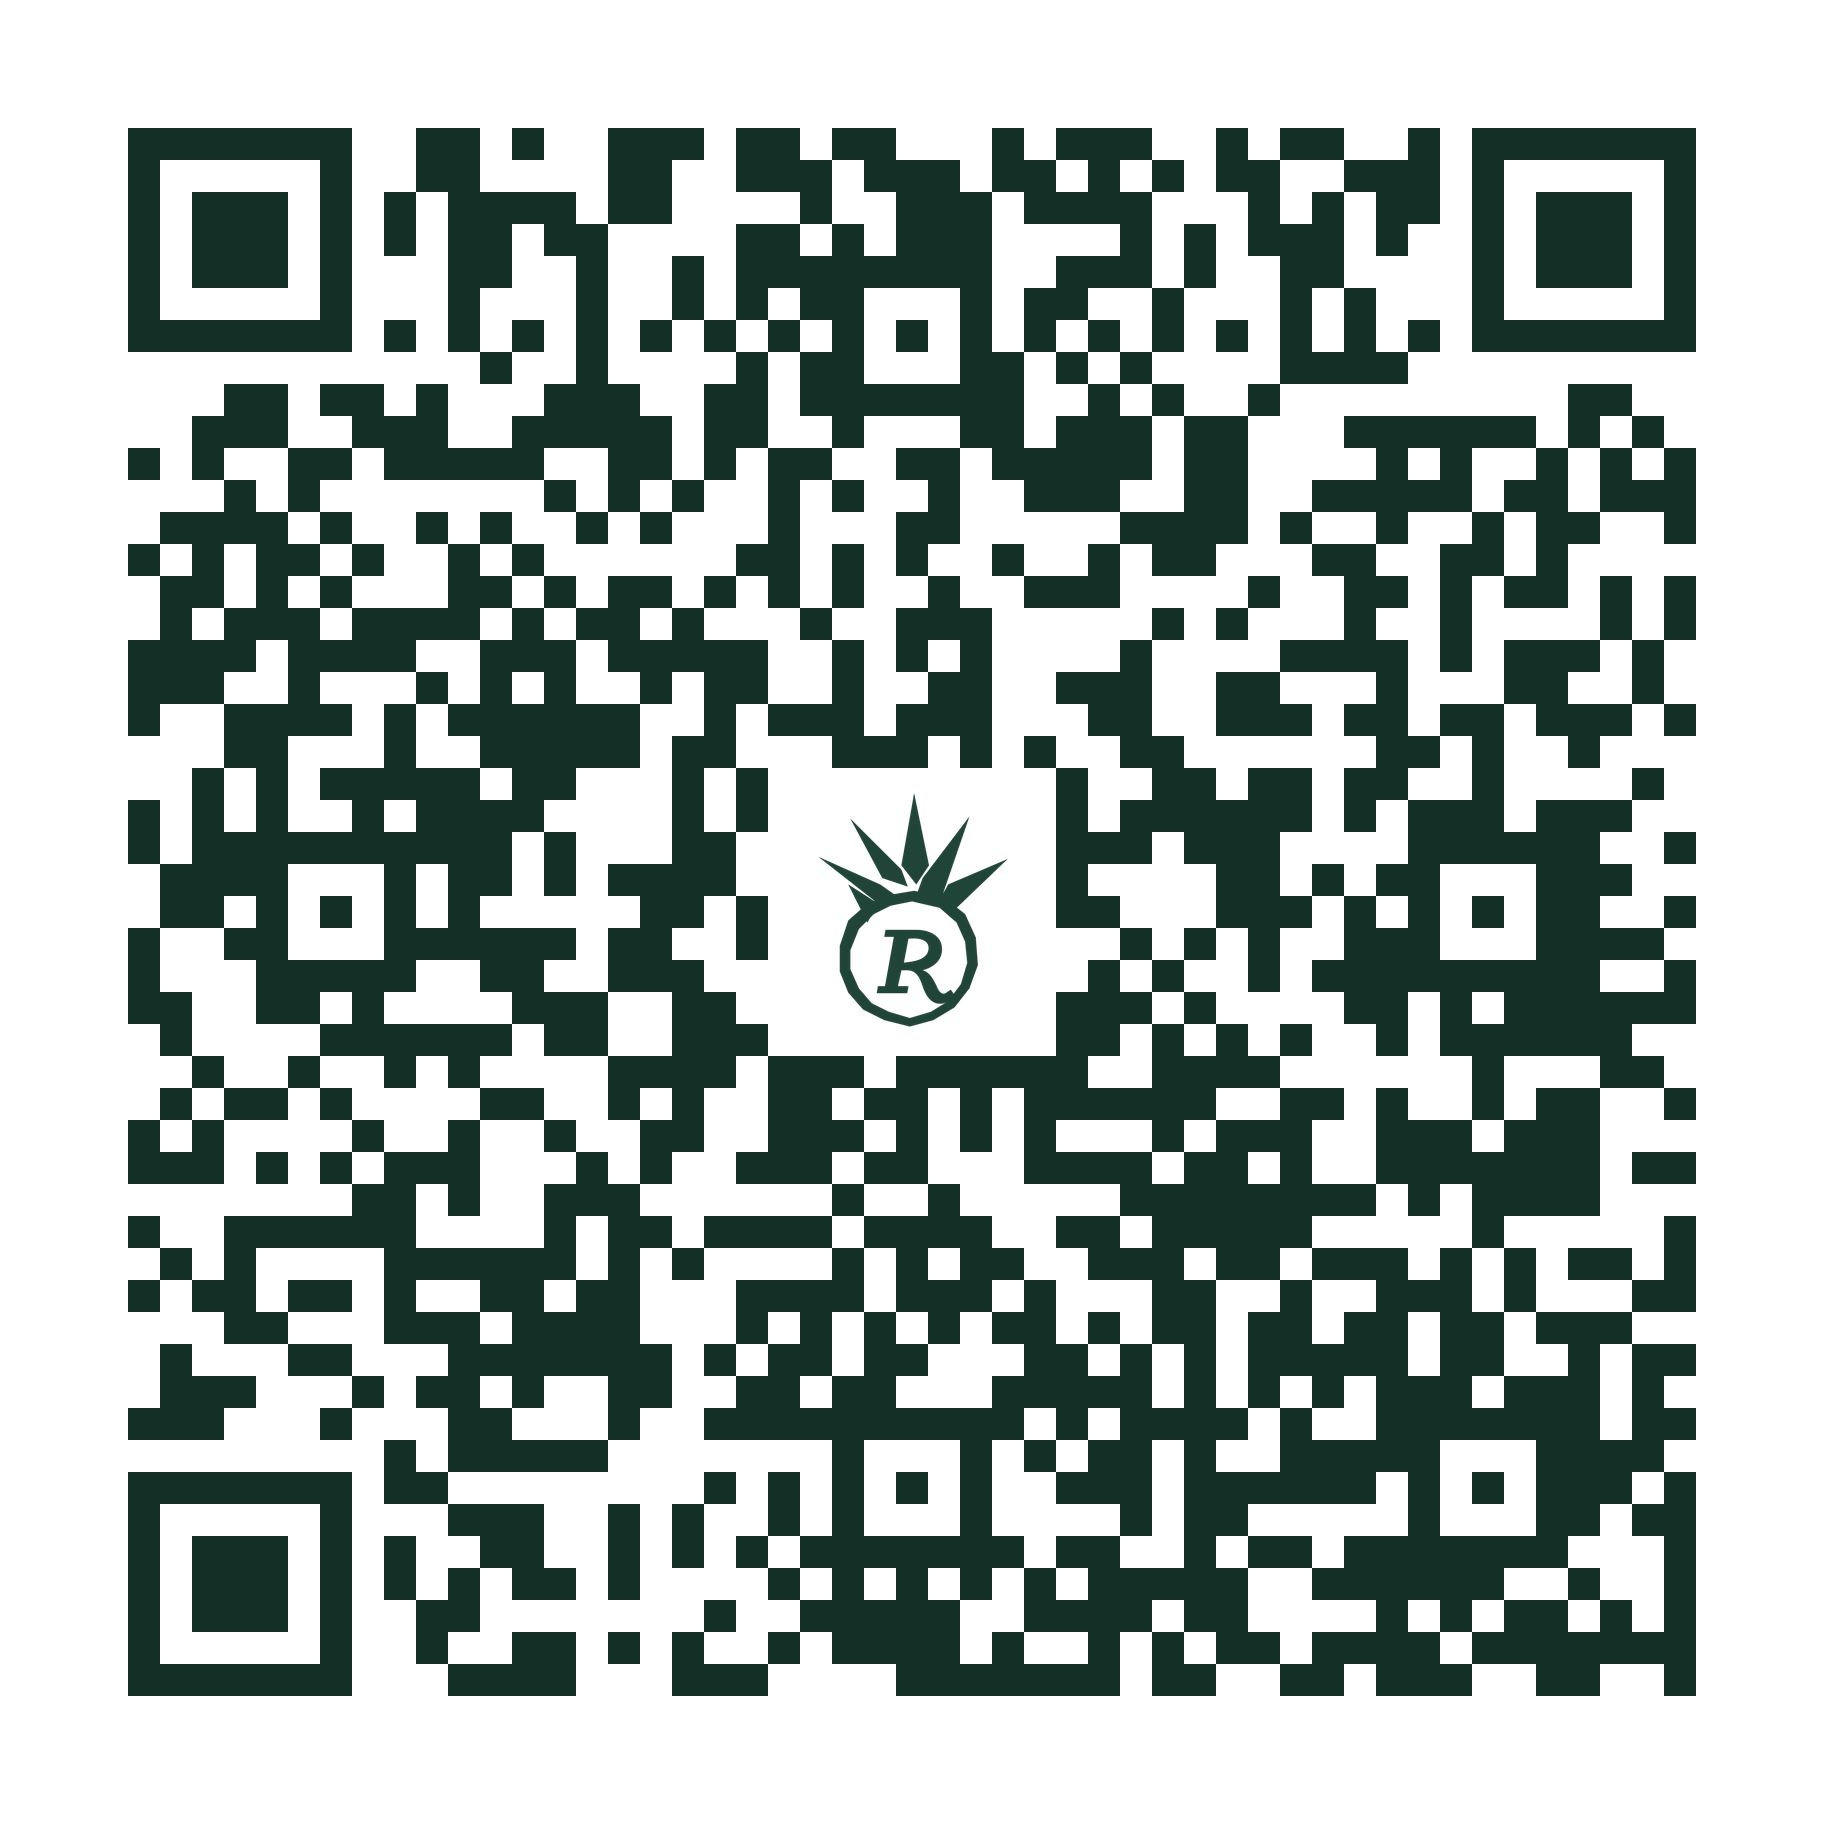
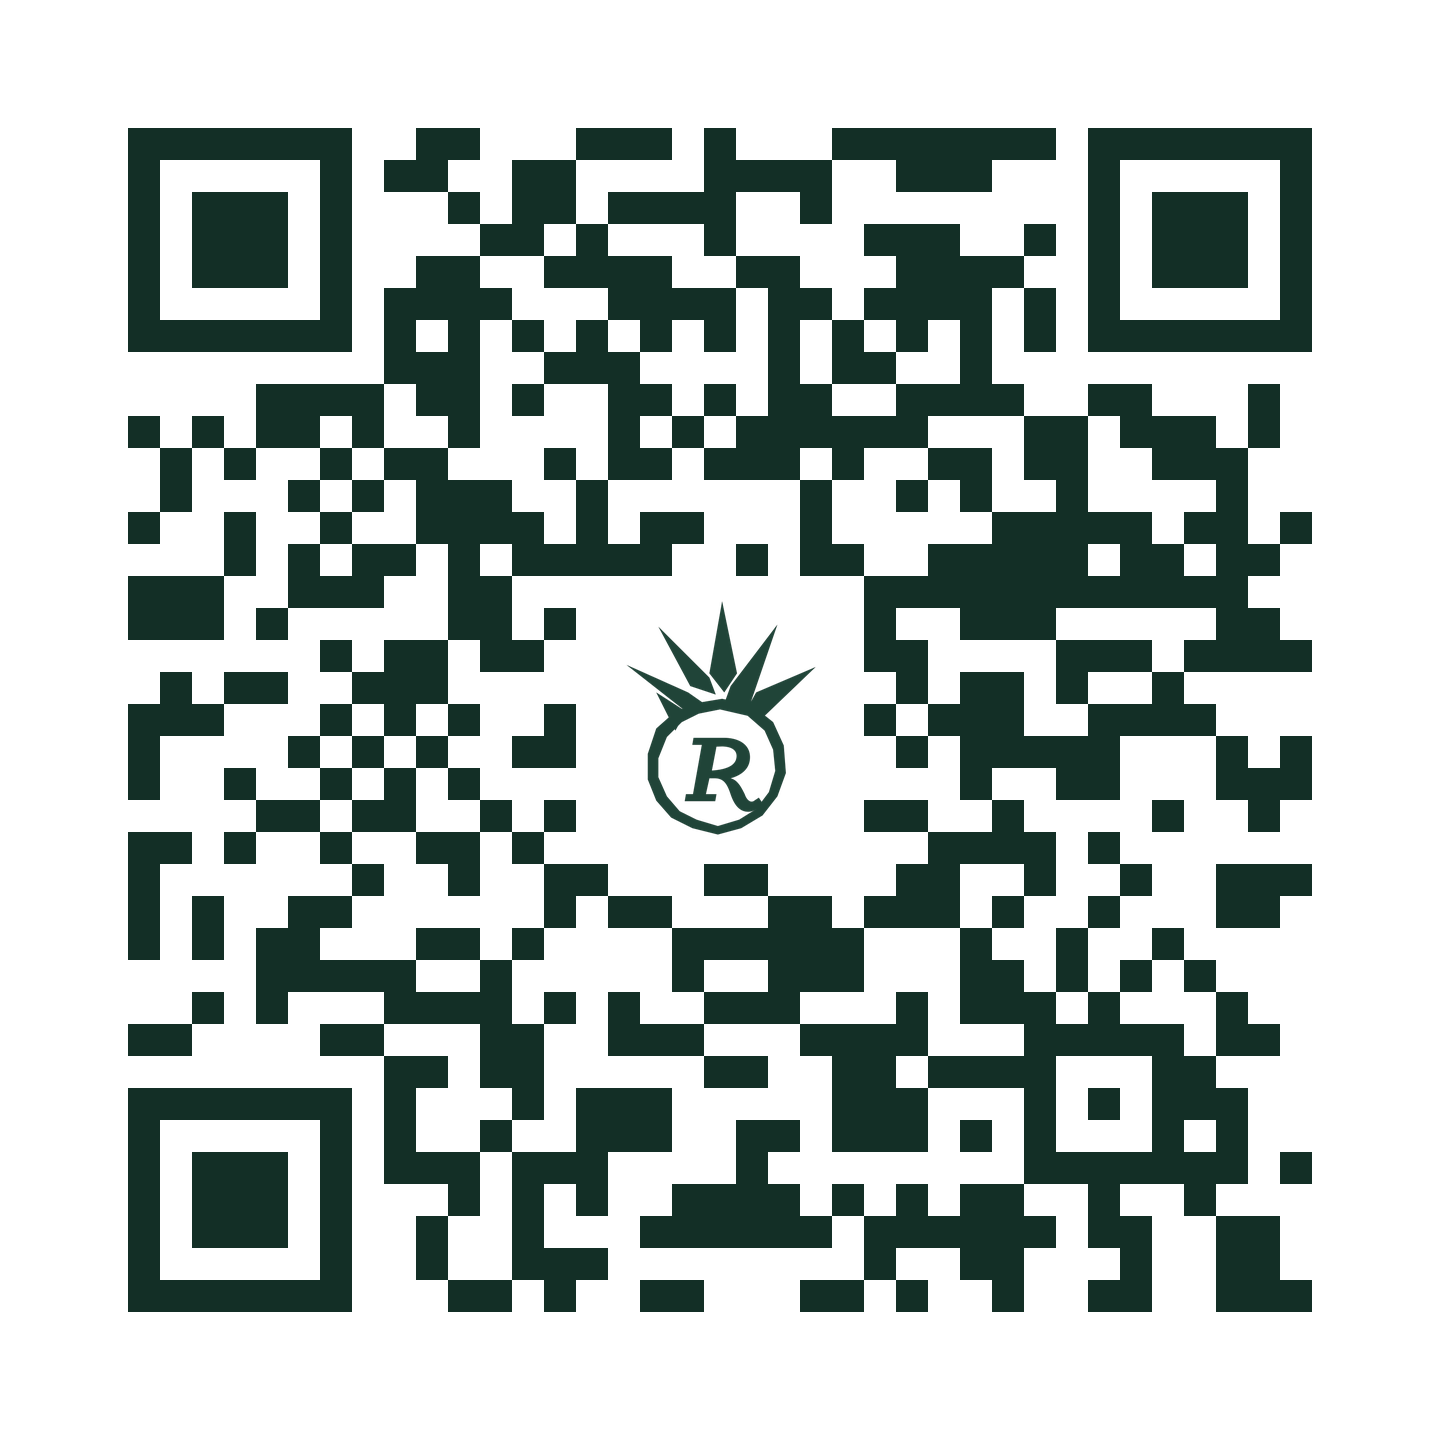
Enlaza los QR nuevos e impresos al dominio de la cava

diff --git a/.github/construir-pages.py b/.github/construir-pages.py
@@ -25,6 +25,15 @@ for src in repo.rglob('*'):
     out.parent.mkdir(parents=True, exist_ok=True)
     shutil.copy2(src, out)
 
+# Los QR impresos antes del cambio de dominio conservan su destino y sus parámetros.
+entry = dest / 'index.html'
+redirect = """<script>
+if (new URLSearchParams(location.search).has('entrar')) {
+  location.replace('https://madrecita.gamasis.app/' + location.search + location.hash);
+}
+</script>"""
+entry.write_text(entry.read_text(encoding='utf8').replace('<head>', '<head>' + redirect, 1), encoding='utf8')
+
 base = f'https://raw.githubusercontent.com/{owner_repo}/{revision}/archivo/datos/'
 module = f"export const photoDirectory = {json.dumps(base)};\n"
 (dest/'archivo/medios.js').write_text(module, encoding='utf8')
